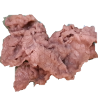
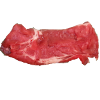
ตัั้งเวลาสุก

diff --git a/core/src/com/mygdx/game/FoodList.java b/core/src/com/mygdx/game/FoodList.java
@@ -2,6 +2,7 @@ package com.mygdx.game;
 
 import java.util.ArrayList;
 import java.util.List;
+import java.util.Random;
 
 public class FoodList {
 	private List<Food> foods = new ArrayList<Food>();
@@ -19,9 +20,20 @@ public class FoodList {
 	}
 	
 	public void initListOfFood() {
-		
-	}
+		listOfFood = new ArrayList<String>();
+		listOfFood.add("ham_cheese");
+//		listOfFood.add("cucumber");
+//		listOfFood.add("corn");
+//		listOfFood.add("meat1");
+//		listOfFood.add("meat2");
+//		listOfFood.add("pork1");
+//		listOfFood.add("pork2");
+//		listOfFood.add("meatball_cheese");
+//		listOfFood.add("meatball_crystalFisEgg");
+//		listOfFood.add("meatball_pork");
+//		listOfFood.add("tofu_fish");
 	
+	}
 	public boolean foodDisappear(int pointerX, int pointerY) {
 		
 		for (int i=foods.size()-1; i >= 0; i--)
@@ -45,29 +57,26 @@ public class FoodList {
 	}
 	
 	private void initFood() {
-		for (int i=0; i<INIT_FOOD; i++) {
-			Food newFood = new Food("meatball_pork",getTime());
+		for (int i = 0; i < INIT_FOOD; i++) {
+			Food newFood = new Food("meat1",world.getTime(),this.world);
 			foods.add(newFood);
 		}
 	}
 	
 	public void foodDisappearDependDuration() {
-		for (int i=0; i<foods.size(); i++) {
+		for (int i = 0; i < foods.size(); i++) {
 			Food food = foods.get(i);
-			if (getTime()-food.getBornTime()>=food.getDuration()) {
+			if (world.getTime() - food.getBornTime() >= food.getDuration()) {
 				foods.remove(foods.get(i));
 			}
 		}
 	}
 	
-	private long getTime() {
-		return System.currentTimeMillis();
-	}
-	
 	public void releaseFood(float delta) {
 		HOWLONGLASTFOOD += delta;
 		if(HOWLONGLASTFOOD >= DELAY) {
-			Food food = new Food("ham_cheese",getTime());
+			Food food = new Food("meat2",world.getTime(),this.world);
+//			food.setSook();
 //			System.out.println(checkNewFoodPosition(food));
 //			while(!checkNewFoodPosition(food)) {
 //				food.regeneratePosition();
@@ -98,5 +107,12 @@ public class FoodList {
 		}
 		
 		return true;
+	}
+	
+	private String randomFood() {
+		Random rand = new Random();
+		int i = rand.nextInt(listOfFood.size());
+		return listOfFood.get(i);
+		
 	}
 }

diff --git a/core/src/com/mygdx/game/GameScreen.java b/core/src/com/mygdx/game/GameScreen.java
@@ -8,7 +8,8 @@ public class GameScreen extends ScreenAdapter {
 	private ShabuGame shabuGame;
 	private World world;
 	private WorldRenderer worldRenderer;
-	private float clickDelay = 0.5f;
+	private float clickDelay = 0.2f;
+	private float clickDelayChopstick = 1;
 	
 	public GameScreen(ShabuGame shabugame) {
 		this.shabuGame = shabugame;
@@ -27,14 +28,16 @@ public class GameScreen extends ScreenAdapter {
 	}
 
 	public void disappearByClick() {
-//		if(world.getLAST_CHOPSTICKCHECKED() >= clickDelay){
-			if (Gdx.input.isButtonPressed(Input.Buttons.LEFT)) {
-				System.out.println("clicked");
-				world.setChopstickClickedTrue();
-			} else {
-				System.out.println("un clicked");
-				world.setChopstickClickedFalse();
-			}
+//		if(world.getLAST_CHOPSTICKCHECKED() > clickDelayChopstick){
+//			if (Gdx.input.isButtonPressed(Input.Buttons.LEFT)) {
+//				System.out.println("clicked");
+//				world.setChopstickClickedTrue();
+//				world.getChopstick().setSpeed(0);
+//			} else {
+//				System.out.println("un clicked");
+//				world.setChopstickClickedFalse();
+//				world.getChopstick().setToOldSpeed();
+//			}	
 //		}
 			
 		if (Gdx.input.isButtonPressed(Input.Buttons.LEFT) && world.getLAST_DISAPPEAR() >= clickDelay) {

diff --git a/core/src/com/mygdx/game/Food.java b/core/src/com/mygdx/game/Food.java
@@ -12,14 +12,21 @@ public class Food {
 	private SpriteBatch batch;
 	private long bornTime; //millisecond
 	private long DURATION = 5000;
+	private long DURATION_SOOK = 3000;
 	private float radius;
 	private float originX;
 	private float originY;
+	private boolean isSook;
+	private String imagefile;
+	private World world;
 	
-	public Food(String imagefile, long bornTime) {
+	public Food(String imagefile, long bornTime, World world) {
 		foodImg = new Texture(imagefile+".png");
 		generatePosition();
 		this.bornTime = bornTime;
+		isSook = false;
+		world = this.world;
+		this.imagefile = imagefile;
 	}
 	
 	private void generatePosition() {
@@ -84,4 +91,25 @@ public class Food {
 		Vector2 tmp = new Vector2(x,y);
 		this.position = tmp.cpy();
 	}	
+	
+	public void setNewPicture(String name) {
+		Texture tmp = new Texture(name + ".png");
+		foodImg = tmp;
+	}
+	
+	public void setSook() {
+		setNewPicture(imagefile + "sook");
+		isSook = true;
+	}
+	
+	public void update() {
+		if(getTime() - bornTime >= DURATION_SOOK) {
+			Texture tmp = new Texture(imagefile + "sook.png");
+			foodImg = tmp;
+		}
+	}
+	
+	public long getTime() {
+		return System.currentTimeMillis();
+	}
 }

diff --git a/core/src/com/mygdx/game/Chopstick.java b/core/src/com/mygdx/game/Chopstick.java
@@ -10,8 +10,9 @@ public class Chopstick {
 	private static Texture chopstickImg;
 	private Vector2 position;
 	private static float originX, originY, radius, angle, originalOriginX, originalOriginY;
-	private float move = 10;
-	private static float speed = 0.2f;
+	private float move = 25;
+	private static float speed = 0.000000000001f;
+	private static float oldSpeed;
 
 	
 	public Chopstick() {
@@ -19,8 +20,9 @@ public class Chopstick {
 //		randomChopstickPosition();
 		position = new Vector2(510,482);
 //		private void calculateCircleEquation(float xStart, float xEnd, float yStart, float yEnd)
-		calculateCircleEquation(284,736,58,510);
+		calculateCircleEquation(284,736,65,517);
 		angle = 0;
+		oldSpeed = speed;
 	}
 	
 	public float getX() {
@@ -110,5 +112,13 @@ public class Chopstick {
 		}
 		sprite.setPosition(originX - 0.5f * chopstickImg.getWidth(), originY - 0.5f * chopstickImg.getHeight());
 		sprite.setOrigin(getMiddle()[0], getMiddle()[1]);
+	}
+	
+	public void setSpeed(float set) {
+		speed = set;
+	}
+	
+	public void setToOldSpeed() {
+		speed = oldSpeed;
 	}
 }

diff --git a/core/src/com/mygdx/game/World.java b/core/src/com/mygdx/game/World.java
@@ -1,5 +1,7 @@
 package com.mygdx.game;
 
+import java.util.List;
+
 public class World {
 	private ShabuGame shabuGame;
 	private FoodList foodList;
@@ -9,6 +11,7 @@ public class World {
 	private float LAST_CHOPSTICKCHECKED = 0;
 	private Chopstick chopstick;
 	private boolean isChopstickClicked = false;
+	public boolean wasChopstickClicked = false;
 	
 	public World(ShabuGame shabuGame) {
 		this.shabuGame = shabuGame;
@@ -57,6 +60,7 @@ public class World {
 	public void update(float delta) {
 		foodList.foodDisappearDependDuration();
 		foodList.releaseFood(delta);
+		updateFood();
 		LAST_DISAPPEAR += delta;
 		LAST_CHOPSTICKCHECKED += delta;
 		chopstick.randomSpeed();
@@ -85,6 +89,17 @@ public class World {
 	
 	public float getLAST_CHOPSTICKCHECKED(){
 		return LAST_CHOPSTICKCHECKED;
+	}
+	
+	public long getTime() {
+		return System.currentTimeMillis();
+	}
+	
+	private void updateFood() {
+		List<Food> list = foodList.getList();
+		for(Food food : list) {
+			food.update();
+		}
 	}
 }
 
